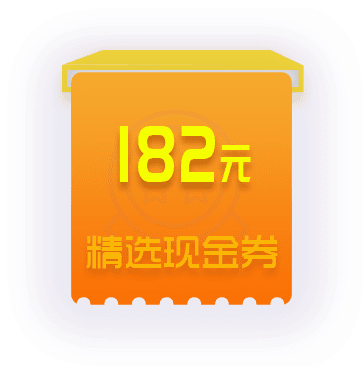
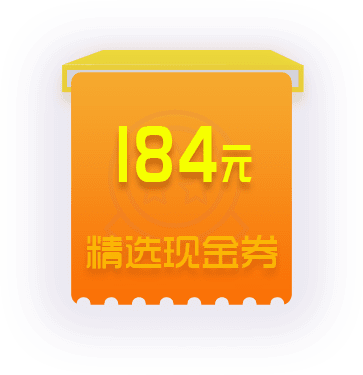
fix(novice.vue):新手专享活动页面 现金券金额修改

Changed region(s): [[0.3636, 0.3227, 0.697, 0.528], [0.303, 0.352, 0.3333, 0.3813]]

diff --git a/src/components/activity/novice.vue b/src/components/activity/novice.vue
@@ -93,13 +93,11 @@
     },
     methods: {
       loadMore: function () {
-        $('.cashCouponList').slideToggle()
-        // $('.cashCouponList').show()
+        $('.cashCouponList').show()
         $('.loadMore').hide()
       },
       slideUp: function () {
-        $('.cashCouponList').slideToggle('fast')
-        // $('.cashCouponList').hide()
+        $('.cashCouponList').hide()
         $('.loadMore').show()
       },
       getUserAuth: function () {
